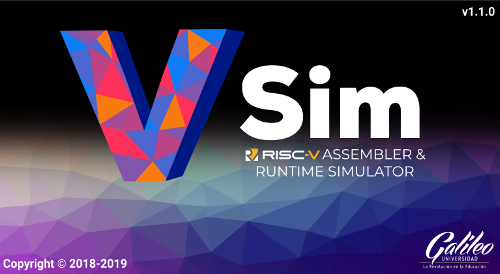
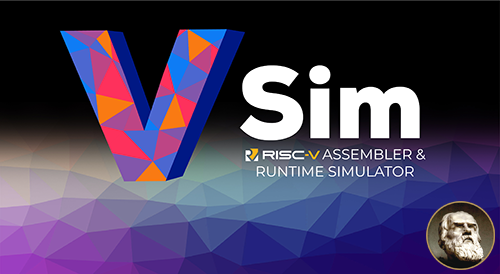
update preloader

diff --git a/vsim/gui/Preloader.java b/vsim/gui/Preloader.java
@@ -1,5 +1,7 @@
 package vsim.gui;
 
+import vsim.Settings;
+import javafx.fxml.FXML;
 import javafx.stage.Stage;
 import javafx.scene.Scene;
 import javafx.stage.Screen;
@@ -8,6 +10,7 @@ import java.io.IOException;
 import javafx.fxml.FXMLLoader;
 import javafx.stage.StageStyle;
 import javafx.scene.image.Image;
+import javafx.scene.control.Label;
 import javafx.geometry.Rectangle2D;
 import javafx.application.Platform;
 
@@ -22,6 +25,9 @@ public final class Preloader extends javafx.application.Preloader {
   /** preloader height */
   private static final double HEIGHT = 274.0;
 
+  /** version label */
+  @FXML private Label version;
+
   /** preloader main stage */
   private Stage stage;
 
@@ -30,9 +36,13 @@ public final class Preloader extends javafx.application.Preloader {
     // remove main frame and buttons (close, minimize, maximize...)
     stage.initStyle(StageStyle.UNDECORATED);
     stage.getIcons().add(new Image(getClass().getResourceAsStream("/resources/img/favicon.png")));
-    Parent root = FXMLLoader.load(getClass().getResource("/resources/fxml/Preloader.fxml"));
+    FXMLLoader loader = new FXMLLoader(getClass().getResource("/resources/fxml/Preloader.fxml"));
+    loader.setController(this);
+    Parent root = loader.load();
+    this.version.setText(Settings.VERSION);
     // save primary stage
     this.stage = stage;
+    stage.setResizable(false);
     Scene scene = new Scene(root, WIDTH, HEIGHT);
     stage.setScene(scene);
     // center stage
@@ -50,7 +60,7 @@ public final class Preloader extends javafx.application.Preloader {
     StateChangeNotification.Type type = info.getType();
     switch (type) {
       case BEFORE_START:
-        stage.hide();
+        this.stage.hide();
         break;
     }
   }
